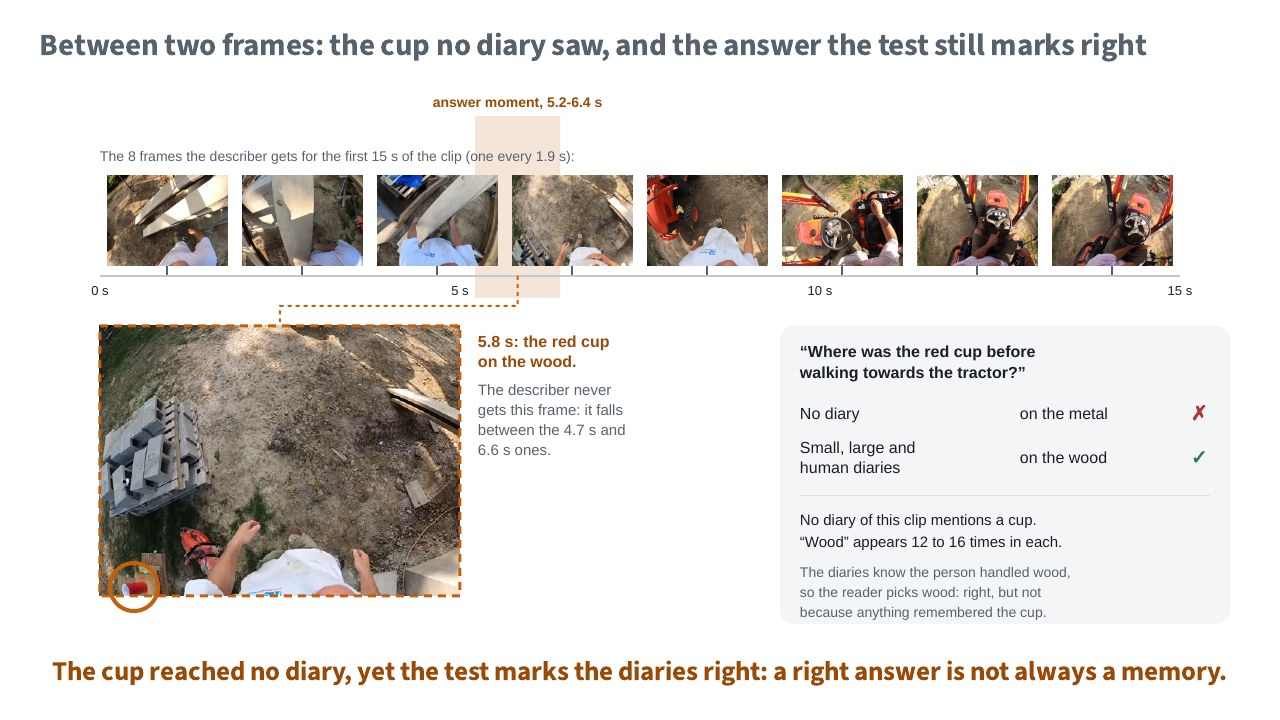
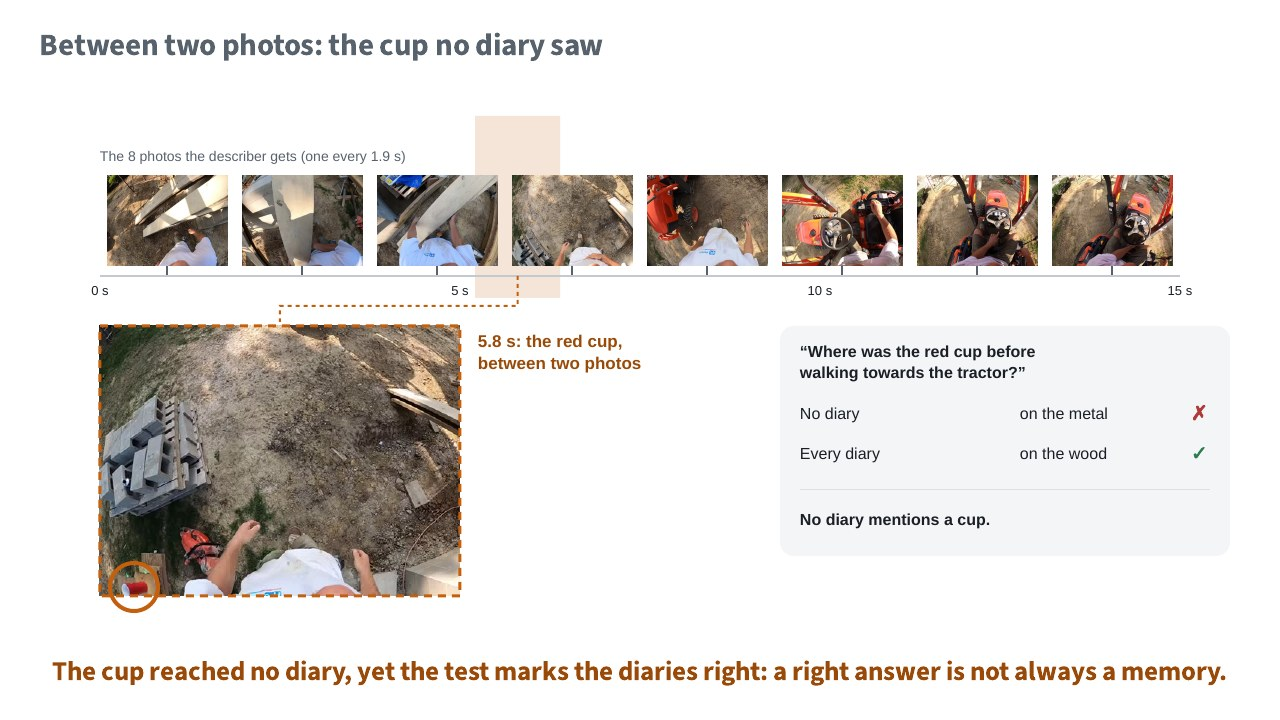
refactor: tighten both parts of Remembering for You by 40% and explain costs in Word pages
Prose cut from 1,126 to 682 words (part 1) and 1,450 to 891 (part 2).
Each section opens with its insight; the 95% intervals move to Limits.
Costs are given in human units first (126 words a minute, one Word
page every 4 minutes, about 220 pages for a 16-hour day; 15 GB of
video for the same day) with kB, MB and tokens in brackets.
Figures keep one message each: no interval cards, footnotes or
network details, and the cost figure shows pages against gigabytes
and whether each describer keeps up with a new window every 15 s.

diff --git a/src/content/logs/remembering-for-you-part-2.md b/src/content/logs/remembering-for-you-part-2.md
@@ -9,75 +9,67 @@ tags: ["Egocentric AI", "VLM", "Episodic Memory", "Failure Analysis"]
 
 <img src="/assets/logs/ego-memory-assistant/logo.png" alt="Remembering for You: round glasses with a clock running backwards in one lens" style="width:170px;max-width:45%;display:block;margin:2rem auto 1.5rem;border:none;box-shadow:none;border-radius:0;" />
 
-In [part 1](/log/remembering-for-you/) I built a memory assistant on Pupil Labs Neon glasses. Every 15 seconds, a vision-language model (Gemma 4 31B) looks at 8 photos and writes one line in a diary of my day; when I ask a question, a language model answers from that diary alone. On my own glasses it answered "What did I do at the window?" but not "Did I close the window?". This part asks how often mistakes like that happen, and why, on 500 questions about other people's videos.
+In [part 1](/log/remembering-for-you/) I built a memory assistant on Pupil Labs Neon glasses: an AI model writes a diary from 8 photos every 15 seconds, then answers my questions from that diary alone. This part asks how often it goes wrong, and why, on 500 questions about other people's videos.
 
 ### TL;DR
 
-- On 500 questions from QAEgo4D, the diary raises the score from 31% (no diary at all) to 53%, and a diary written by people gets only 59%.
-- Where it fails is clearer than the score: a small model invents objects that come from its own prompt, both models write down things that did not happen, and the diary misses what falls between two photos.
+- With the diary, the AI answers 53% of the questions right; with no diary it already gets 31%, and with a diary written by people, 59%.
+- The score hides three different failures: a small model invents objects from its own instructions, both models write down things that did not happen, and what happens between two photos never reaches the diary.
 
 ---
 
-### What the papers do not measure
-
-The works this prototype builds on (LLoVi [1], LifelongMemory [2] and the online memory of Lando et al. [3, 4], all described in part 1) report what a paper usually reports: an accuracy on a benchmark, with four or five answer options per question, and, in some, a cost. What none of them puts numbers on is where the errors come from: how many questions a reader gets right with no memory at all, how much better a perfect describer would do, and what kind of false sentences end up in the diary. That is what this post is about.
-
 ### How I tested it
 
-To measure it I used QAEgo4D [5], a set of multiple-choice questions about first-person videos: for example, "Where was the red cup before walking towards the tractor?", with four possible answers. The videos come from Ego4D [7], thousands of hours filmed by people wearing head cameras in their daily lives. I used the same 500 four-option questions as Lando et al. [4] (the version called QAEgo4D-Closed [6]), over 148 clips of about 8 minutes. To the usual score I added three things: a reader that gets no diary at all, a diary written from Ego4D's human narrations instead of a model, and, for each describer, 50 doubtful diary mentions checked one by one against their frames.
+QAEgo4D [5, 6] asks multiple-choice questions, four answers each, about first-person videos from Ego4D [7], filmed with head cameras: "Where was the red cup before walking towards the tractor?". I used the 500 questions of Lando et al. [4], over 148 clips of about 8 minutes, and added three checks the papers I build on [1-4] lack: a reader with no diary, a diary written from Ego4D's human narrations, and an eye check of 50 doubtful mentions per model.
 
-### A blind reader already gets 31%
-
-With four options, guessing gets 25%. A reader that sees no diary at all gets 31.2%, because many wrong options were generated automatically and are easy to rule out ("on the ceiling"). So any score on this test has to be read against 31%, not 25%. None of the memory works above reports such a control for its own system.
-
-### The diary adds 22 points, and a human-written one only about 5 more
+### The diary adds 22 points; a human-written one, only 5 to 6 more
 
 <a href="/assets/logs/ego-memory-assistant/ladder.jpg"><img src="/assets/logs/ego-memory-assistant/ladder.jpg" alt="Questions right out of 500: no diary 31.2%, small model 43.6%, large model 53.4%, human-written diary 59.4%" style="width:100%;display:block;margin:0 auto;" /></a>
 
-With the large model's diary (Gemma 4 31B), the reader gets 53.4%: **22.2 points above the blind reader**, with a 95% interval of [17.7, 26.6] (from resampling clips). The diary clearly helps. A smaller describer, Gemma 4 E4B, gets 43.6%, so who writes the diary matters (+9.8 [5.5, 14.1]).
+Guessing gets 25%, but a reader with no diary already gets 31%: many wrong options were generated automatically and are easy to rule out ("on the ceiling"). With a diary from the large model (Gemma 4 31B) the reader gets 53%, 22 points more; from a small one (Gemma 4 E4B), 44%.
 
-The human-written diary is the useful comparison. Ego4D's narrations were written by people watching the video, so a diary made from them shows roughly what a much better describer would give. It reaches 59.4%, only 6.0 points above the large model [0.7, 11.1], and with a different order of the options the gap is 4.8 [−0.2, 9.8]: small, and not robust. Two things follow. The large model already writes most of what a person would. And even with a person's diary, 4 questions in 10 stay wrong, so better perception alone would not fix most of what remains. (Narrations describe actions and skip many objects, so this is a soft ceiling: on questions about people, the model's diary even does better.)
+A diary made from Ego4D's human narrations shows roughly what a much better describer would give: 59%, only 5 to 6 points more, and not a robust gap (see Limits). Even a person's diary leaves 4 questions in 10 wrong, so better perception alone would not fix most of what remains.
 
-### What the small model invents comes from its own prompt
+### The small model's inventions come from its own instructions
 
-<a href="/assets/logs/ego-memory-assistant/echo.jpg"><img src="/assets/logs/ego-memory-assistant/echo.jpg" alt="The prompt lists keys, wallet, phone, glasses and bags as examples; the small model writes about picking up keys in a third of all windows" style="width:100%;display:block;margin:0 auto;" /></a>
+<a href="/assets/logs/ego-memory-assistant/echo.jpg"><img src="/assets/logs/ego-memory-assistant/echo.jpg" alt="The prompt gives keys, wallet, phone, glasses and bags as examples; the small model names keys in a third of all windows, the large one almost never" style="width:100%;display:block;margin:0 auto;" /></a>
 
-"Fewer points" is not a diagnosis yet. Reading the lines that no narration supports, the small model's most common invention turns out to be its own prompt, read back. The prompt asks the describer to prioritise personal objects "(keys, wallet, phone, glasses, bags)". The small model writes *"I picked up my keys and placed them on the counter near the sink."* word for word 63 times, in 27 of the 148 clips, and names keys in a third of all windows (32.6%). Checked one by one on the frames, 20 of its 50 doubtful mentions were invented; the large model invented none of its 50.
+The describer's instructions (its *prompt*) list "keys, wallet, phone, glasses, bags" as examples, and the small model reads them back: it writes *"I picked up my keys and placed them on the counter near the sink."* word for word 63 times, and names keys in a third of all windows. Checked by eye, 20 of its 50 doubtful mentions were invented; the large model invented none.
 
-Taking the examples out of the prompt drops keys to 0.1% of the windows and invented objects to 0 of 50. It is a cheap fix, but it does not close the gap: the small model still trails the large one by 7.4 points [3.5, 11.4], and it still names far fewer of the objects the person actually handles.
+Removing the examples drops keys to almost zero and invented objects to 0 of 50. It is a cheap fix, but the small model still trails the large one by about 7 points.
 
 ### Both models write down what did not happen
 
-<a href="/assets/logs/ego-memory-assistant/negations.jpg"><img src="/assets/logs/ego-memory-assistant/negations.jpg" alt="About one window in ten has a negation sentence, for both models; none in the human narrations" style="width:100%;display:block;margin:0 auto;" /></a>
+<a href="/assets/logs/ego-memory-assistant/negations.jpg"><img src="/assets/logs/ego-memory-assistant/negations.jpg" alt="About one window in ten has a negation sentence, for both models, even when told not to; none in the human narrations" style="width:100%;display:block;margin:0 auto;" /></a>
 
-The second kind of false line is more worrying for this use. About one window in ten contains a negation: 11.7% for the small model and 9.4% for the large one, against none in the human narrations. The large model writes *"No personal objects were handled, no food or medication was taken, and no appliances or doors were operated."* 22 times. From 8 frames out of the 450 in those 15 seconds, a describer cannot know that nothing was taken, and yet "no medication was taken" is exactly what a reader needs to answer "Did I take my pill?".
+About one window in ten contains a negation, for both models; the human narrations have none. The large model writes *"No personal objects were handled, no food or medication was taken, and no appliances or doors were operated."* 22 times. From 8 photos it cannot know that nothing was taken, yet "no medication was taken" is exactly what answers "Did I take my pill?".
 
-The prompt without examples also added an explicit rule: do not list things I did not do or did not see. The small model's share of negations did not move (11.7%), and its favourite one, *"I did not switch any appliances, taps, doors, or windows."*, went from 123 to 244 occurrences. I have not yet measured how often a negation leads the reader to a wrong answer.
+Telling the small model not to list what it did not see changed nothing: still 11.7%, and its favourite negation went from 123 to 244 times.
 
-### What falls between two frames never reaches the diary
+### What happens between two photos never reaches the diary
 
-<a href="/assets/logs/ego-memory-assistant/cup.jpg"><img src="/assets/logs/ego-memory-assistant/cup.jpg" alt="The red cup is visible only in a frame at 5.8 s that the describer never gets; still, every diary reader answers 'on the wood' correctly" style="width:100%;display:block;margin:0 auto;" /></a>
+<a href="/assets/logs/ego-memory-assistant/cup.jpg"><img src="/assets/logs/ego-memory-assistant/cup.jpg" alt="The red cup shows only at 5.8 s, between two of the photos the describer gets; no diary mentions it, yet every diary reader answers 'on the wood' correctly" style="width:100%;display:block;margin:0 auto;" /></a>
 
-Eight frames in 15 seconds is one every 1.9 seconds, and anything shorter can fall in between. In the first window of one clip, the red cup a question asks about is visible around 5.8 s. The describer gets the frames at 4.7 s and 6.6 s, and the cup is in neither. No diary of that clip, not even the human one, mentions a cup.
+Eight photos in 15 seconds is one every 1.9 seconds, and anything shorter can fall in between. In one clip, the red cup a question asks about shows only at 5.8 s, between two photos, so no diary mentions it, not even the human one.
 
-Yet all three diaries get the question right ("on the wood"), while the blind reader picks "on the metal". The diaries say again and again that the person handled wood, and the reader picks the option that fits. The answer is right, but nothing remembered the cup. A four-option score counts it as memory all the same.
-
-The window on my own glasses, in [part 1](/log/remembering-for-you/), is the same problem from the other side: there the photos caught the moment, but not the change.
+Yet all three diaries answer right ("on the wood"), while the reader with no diary says "on the metal": the diaries say the person handled wood, and the reader picks the option that fits. Nothing remembered the cup, but a four-option score counts it as memory.
 
 ### Limits
 
-- Each diary was written once. Its numbers held with a second option order and with a reader from another family (Qwen), but I did not write each diary several times.
-- The test still has four options. This post explains a score; it does not replace it with open-ended answers.
-- The human diary is a soft ceiling, because narrations describe actions and skip many objects.
-- The checks on the frames are 50 mentions per describer, judged by a single rater on small frames (160×120), and that rater was an AI model (Claude), not a person.
+- **Uncertainty** (95% intervals, resampling clips): diary vs. no diary +22.2 points [17.7, 26.6]; large vs. small model +9.8 [5.5, 14.1]; human vs. large +6.0 [0.7, 11.1], but +4.8 [−0.2, 9.8] with another option order, so not robust; small model without the examples vs. large −7.4 [−11.4, −3.5].
+- Each diary was written once; the results held with a second option order and with a reader from another family (Qwen).
+- I have not measured how often a negation leads to a wrong answer.
+- The test still has four options: this post explains the score, it does not replace it.
+- The human diary is a soft ceiling: narrations describe actions and skip many objects.
+- The eye checks are 50 mentions per model on small photos (160×120), by one rater: an AI model (Claude), not a person.
 
 ### What I take from it
 
-The recipe works: a text diary of a few hundred bytes per minute adds 22 points. But one score mixes very different things: questions that need no memory, lines the describer invents or negates, and moments that fall between two frames. Pulled apart, they point to different fixes. The describer's habits, like echoing its prompt or writing what did not happen, are cheap to see and partly cheap to fix. What falls between frames, and the time it takes to write the diary live ([part 1](/log/remembering-for-you/)), are the hard part, and that is where I am working next. Neon's gaze is an obvious lead there: where I look could choose which frames get described and which objects get named, the two places where the describer fails today. That is an idea, not a result yet.
+A diary that fills one Word page every 4 minutes adds 22 points, but the score mixes very different things: questions that need no memory, lines the describer invents or negates, and moments between photos. The describer's habits are cheap to see and partly to fix. What falls between photos, and writing as fast as life goes ([part 1](/log/remembering-for-you/)), are the hard part and where I am working next. Neon's gaze is an obvious lead: where I look could choose which photos get described. That is an idea, not a result yet.
 
 ### Code
 
-The code of this evaluation (the diaries, the reader with no diary, the diary built from the narrations, the counts of prompt echoes and negations, and the checks on the frames) is in the [`experiments/describer_eval`](https://github.com/Enminxo/ego-memory-assistant/tree/worktree-describer-eval/experiments/describer_eval) folder of the [same repository](https://github.com/Enminxo/ego-memory-assistant), on a separate branch for now. QAEgo4D and Ego4D are not included: both require signing their licenses.
+The evaluation code is in [`experiments/describer_eval`](https://github.com/Enminxo/ego-memory-assistant/tree/worktree-describer-eval/experiments/describer_eval) of the [same repository](https://github.com/Enminxo/ego-memory-assistant), on a separate branch for now. QAEgo4D and Ego4D need their own licenses.
 
 ### References
 

diff --git a/src/content/logs/remembering-for-you.md b/src/content/logs/remembering-for-you.md
@@ -11,61 +11,55 @@ img_alt: "What the glasses saw: my hand pushing the office window shut"
 
 <img src="/assets/logs/ego-memory-assistant/logo.png" alt="Remembering for You: round glasses with a clock running backwards in one lens" style="width:170px;max-width:45%;display:block;margin:2rem auto 1.5rem;border:none;box-shadow:none;border-radius:0;" />
 
-We have all asked ourselves at some point: "Where did I leave my keys?" "Did I turn off the stove?" "Did I close the window?" It usually happens on a busy day, about something we did a few minutes earlier without paying attention. Glasses with a camera would have caught the moment we missed. The hard part is not recording. It is remembering the right things.
-
-This post is about a prototype that tries to do that, in two parts. This first part explains how it works, shows it on one minute of my own day with my Pupil Labs Neon glasses, and measures what it costs to run live. [Part 2](/log/remembering-for-you-part-2/) takes its mistakes apart on 500 benchmark questions.
+"Did I turn off the stove?" "Did I close the window?" We forget what we did minutes ago without paying attention; camera glasses would have caught it. The hard part is not recording; it is remembering the right things. This part shows a prototype that tries, on one minute of my day with Pupil Labs Neon glasses, and what it costs. [Part 2](/log/remembering-for-you-part-2/) takes its mistakes apart on 500 benchmark questions.
 
 ### TL;DR
 
-- I built a memory assistant on Pupil Labs Neon glasses: every 15 seconds a vision-language model writes one line in a diary, and a language model answers questions from that diary, pointing to the moment its answer comes from.
-- On my own glasses it answers "What did I do at the window?" but not "Did I close the window?": the photos caught my hand on the glass, not the change.
-- Storing the diary costs under 1 kB per minute. Writing it is the expensive part: on my glasses the good model needs about 29 seconds for every 15 seconds of life, so it falls behind.
+- Every 15 seconds, an AI model looks at 8 photos from my glasses and writes one line in a diary; then, as a reader, it answers my questions from the diary alone.
+- It can tell me what I did at the window, but not whether I closed it: the photos caught my hand on the glass, not the change.
+- Keeping the diary is almost free: a waking day fits in about 220 Word pages. Writing it is the bottleneck: on my glasses, the good model writes at half the speed of life.
 
 ---
 
-### The system
+### How it works
 
-<a href="/assets/logs/ego-memory-assistant/system.jpg"><img src="/assets/logs/ego-memory-assistant/system.jpg" alt="Three layers: the Neon glasses and their phone; the describer and the diary on a DGX Spark; the reader that answers with the moment. Each arrow is labeled with what crosses it." style="width:100%;display:block;margin:0 auto;" /></a>
+<a href="/assets/logs/ego-memory-assistant/system.jpg"><img src="/assets/logs/ego-memory-assistant/system.jpg" alt="The glasses and phone send 8 photos every 15 seconds; the describer writes one diary line; the reader answers from the diary alone and cites the moment" style="width:100%;display:block;margin:0 auto;" /></a>
 
-The glasses' scene camera is wired to its phone. A small relay on the phone keeps 8 photos of every 15 seconds and sends only those to a DGX Spark on my desk. There, Gemma 4 31B writes one line in the first person for each 15-second window: *"In the kitchen, I stirred scrambled eggs in a pan on the stove."* Only the scene camera is used: Neon also records where I look and what I hear, but the prototype does not use either yet. The diary is text only. When a question comes in, the same model, now as a reader, sees only the diary, never the video, and answers citing the line it relied on, so the moment can be checked.
+The glasses' camera is wired to a phone, which sends only 8 photos of every 15 seconds to a DGX Spark, an AI computer on my desk. There, a vision-language model (an AI that looks at images and writes text; here Gemma 4 31B) writes one line per window: *"In the kitchen, I stirred scrambled eggs in a pan on the stove."* When I ask a question, the same model reads only that diary, never the video, and cites the line it used. Neon also records where I look and what I hear; the prototype does not use either yet.
 
-### Related work
+### What is new, and what is not
 
-The recipe is "describe, then read". A vision-language model watches the video in short pieces and writes down what happens; later, a language model reads that text to answer questions. LLoVi [1] and LifelongMemory [2] showed in 2023 that this simple recipe works on long videos. Lando, Forte, Farinella and Furnari [3, 4] turned it into an *online* episodic memory: the text is written as the video arrives, one piece every 15 or 30 seconds, and kept as a small diary. My prototype follows their design and their prompts.
-
-The closest system on real glasses is VisionClaw [5]: Meta Ray-Ban glasses stream to a phone, Gemini Live answers, and an agent carries out tasks for the user. Its users also ask about the past ("What did I do yesterday?"): recall is 12% of their requests. But the paper does not describe a running diary of what the camera sees (recall draws on saved items and logged interactions), and it does not measure how often recall is right.
+The recipe, "describe, then read", is not mine: LLoVi [1] and LifelongMemory [2] showed it works on long videos, and Lando et al. [3, 4] write the diary as the video arrives. I follow their design. The closest system on real glasses, VisionClaw [5] (Meta Ray-Ban), recalls the past but keeps no running diary and does not measure how often it is right.
 
 ### On my own glasses: the window I closed
 
-Benchmarks use other people's videos. The point of the glasses is to run this on mine, so here is one short recording, from start to finish. I wear the Neon glasses, wired to their phone, record with the Companion app, and upload the recording to the demo page. The diary is written as the video is read, and questions can be asked at any moment. (It also runs live, through the relay on the phone; that part is mostly about cost, so it comes later.)
-
-In the recording I walk to the office window, push it shut, and go through two doors. This is the moment the window closes:
+I walk to the office window and push it shut:
 
 <video poster="/assets/logs/ego-memory-assistant/window-close-poster.jpg" autoplay muted loop playsinline style="width:100%;display:block;margin:0 auto;border-radius:12px;" aria-label="Seen through the glasses: my hand pushes the sliding office window shut"><source src="/assets/logs/ego-memory-assistant/window-close.mp4" type="video/mp4"><source src="/assets/logs/ego-memory-assistant/window-close.webm" type="video/webm"></video>
 
-The describer never sees this video. It gets 8 photos of every 15 seconds, and only the last two catch my hand on the glass:
+The describer only gets 8 photos, and just the last two catch my hand on the glass:
 
-<a href="/assets/logs/ego-memory-assistant/window-frames.jpg"><img src="/assets/logs/ego-memory-assistant/window-frames.jpg" alt="The 8 photos of the first 15 seconds, the two diary lines written for them in two runs, and which questions the reader can answer" style="width:100%;display:block;margin:0 auto;" /></a>
+<a href="/assets/logs/ego-memory-assistant/window-frames.jpg"><img src="/assets/logs/ego-memory-assistant/window-frames.jpg" alt="The 8 photos of those 15 seconds, the diary line written for them in two runs, and the two questions: one answered, one not" style="width:100%;display:block;margin:0 auto;" /></a>
 
-So the diary says I touched the window, and in one of two runs that the window "remained closed". The reader answers "What did I do at the window?" well, and cites the moment, so I can jump to it in the video. It cannot answer "Did I close the window?", because nothing in the diary says so.
+So the diary says I touched the window, and in one of two runs that it "remained closed". The reader answers "What did I do at the window?" and points to the moment. It cannot answer "Did I close the window?": nothing in the diary says so.
 
 <a href="/assets/logs/ego-memory-assistant/app.jpg"><img src="/assets/logs/ego-memory-assistant/app.jpg" alt="The demo page: the video, the diary written so far, the photos behind each line, and an answer with its moment" style="width:100%;display:block;margin:0 auto;" /></a>
 
-### What it costs: storing the diary is almost free, writing it is not
+### What it costs: keeping the diary is almost free, writing it is not
 
-<a href="/assets/logs/ego-memory-assistant/cost.jpg"><img src="/assets/logs/ego-memory-assistant/cost.jpg" alt="Accuracy against seconds to write one 15-second window, with the 15-second live limit; the diary takes 0.67 kB per minute against 15.3 MB per minute of video" style="width:100%;display:block;margin:0 auto;" /></a>
+<a href="/assets/logs/ego-memory-assistant/cost.jpg"><img src="/assets/logs/ego-memory-assistant/cost.jpg" alt="Keeping: an hour of life is 14 Word pages of diary against 0.9 GB of video. Writing: the small model takes 1.8 s per 15-second window, the large one 9.6 s, and the large one live on the glasses 29 s, past the 15-second limit" style="width:100%;display:block;margin:0 auto;" /></a>
 
-**Storage is the cheap part.** As the reader sees it, with its times, the large model's diary takes 0.67 kB per minute of video, about 195 tokens. The videos it was written from (the Ego4D [6] clips of the benchmark in part 2) take 15.3 MB per minute, more than 20,000 times as much. This agrees with the 3.6 kB per minute that Lando et al. report [3], although they do not say exactly what they count, so I would not compare the two numbers closely. A smaller describer, Gemma 4 E4B, writes slightly longer diaries (0.80 kB per minute).
+**Keeping it.** Language models read text in *tokens*, pieces of words; here 100 tokens are about 65 words. On the benchmark videos of part 2, the large model's diary grows by about 195 tokens, or 126 words, per minute of life. In Word's default layout, that is one page every 4 minutes, 14 pages an hour, and about 220 pages for a 16-hour day. The video would take about 15 GB that day, over 20,000 times more. (In the units papers use: 0.67 kB of diary against 15.3 MB of video per minute.)
 
-**Writing is the expensive part.** On the benchmark's frames (720×540), the large model takes a median of 9.6 s per 15-second window and the small one 1.8 s. The small model's diary answers about 10 points fewer questions ([part 2](/log/remembering-for-you-part-2/) explains how that was measured), so those 10 points cost five times the time. Live, at the full size of Neon's scene camera (1600×1200), the large model took 29 s per window in a 10-minute session, so 20 of 46 windows were dropped. The app skips them on purpose rather than describe an old picture as if it were the present. Most of the time goes into reading the images: with the GPU to itself, 8 frames take about 11 s at 960×540, 18 s at 1280×960 and 26 s at full size.
+**Writing it.** A new window arrives every 15 seconds, so each line has 15 seconds to be written. On the benchmark's photos, the large model needs about 10: it keeps up. Live on my glasses, with full-size photos, it needed 29: half the speed of life, so 20 of 46 windows were skipped. A smaller model, Gemma 4 E4B, needs under 2 seconds, but its diary answers about 10 fewer questions in 100.
 
 ### What I take from it
 
-The recipe runs on real glasses, and keeping the diary is almost free: a few hundred bytes per minute. Two things stand in the way. With the model that writes it well, the diary is written more slowly than life goes by, so parts of the day are lost. And even when the photos catch the moment, the diary can miss the change: it saw my hand on the window, not the window closing. These live numbers come from short sessions, by one person, in one office. [Part 2](/log/remembering-for-you-part-2/) asks how often mistakes like these happen, on 500 questions about other people's videos, and pulls apart where they come from.
+The recipe runs on real glasses, and the diary costs almost nothing to keep. What stands in the way is writing it as fast as life goes, and catching changes, not just moments. These numbers come from short sessions, one person, one office; [part 2](/log/remembering-for-you-part-2/) measures how often such mistakes happen.
 
 ### Code
 
-The code is open, under the MIT license: [github.com/Enminxo/ego-memory-assistant](https://github.com/Enminxo/ego-memory-assistant). It has the demo page, the import of recordings from the Neon Companion app, and the relay that runs on the glasses' phone for the live mode.
+The code is open (MIT): [github.com/Enminxo/ego-memory-assistant](https://github.com/Enminxo/ego-memory-assistant), with the demo page, the import of Neon recordings and the relay for the phone.
 
 ### References
 
